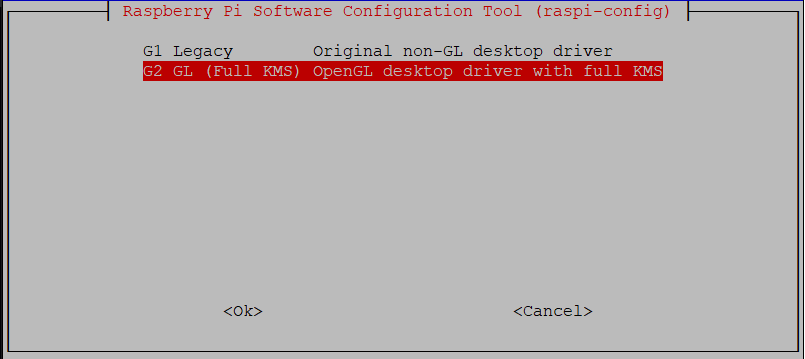
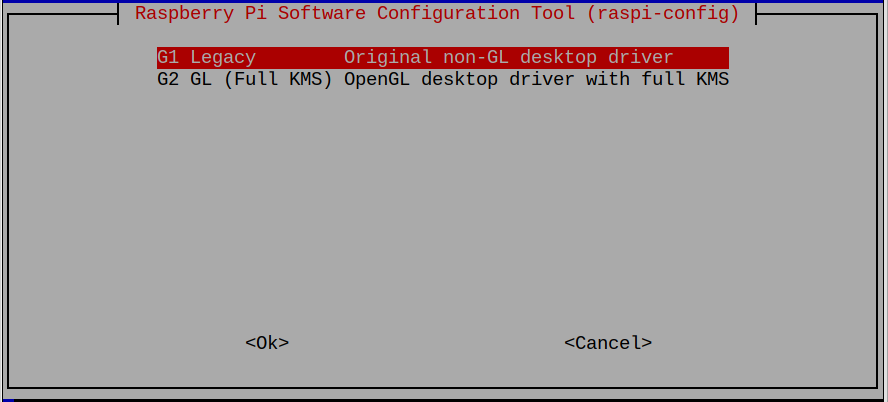
Change GL driver to legacy Removed config.txt instructions.

diff --git a/pi-config/readme.md b/pi-config/readme.md
@@ -39,26 +39,11 @@ The PI 3 required the `Glamor` option for hardware acceleration.
 
 ![Advanced Options](raspi-config-advanced.png "Advanced Options")
 
-Also on the same menu, change the `GL Driver`
+Also on the same menu, change the `GL Driver` to `Legacy`
 
 ![Graphics Driver](raspi-config-graphics-driver.png "Graphics Driver")
 
 ## Other Configuration
-
-### config.txt
-
-The raspberry PI does not drive video output if the TV (HDMI device) is not on during power up.  This can be forced by adding the following lines to the `/boot/config.txt` file. The output will be set 1080p 60Hz.
-
-```text
-hdmi_force_hotplug=1
-hdmi_group=1
-hdmi_mode=16
-```
-
-**Note:** The key are already in the config.txt file.
-They just need to be uncommented and the correct value added.
-
-See: [Documentation config.txt: HDMI Mode](https://www.raspberrypi.com/documentation/computers/config_txt.html#hdmi-mode)
 
 ## Desktop Setup
 
